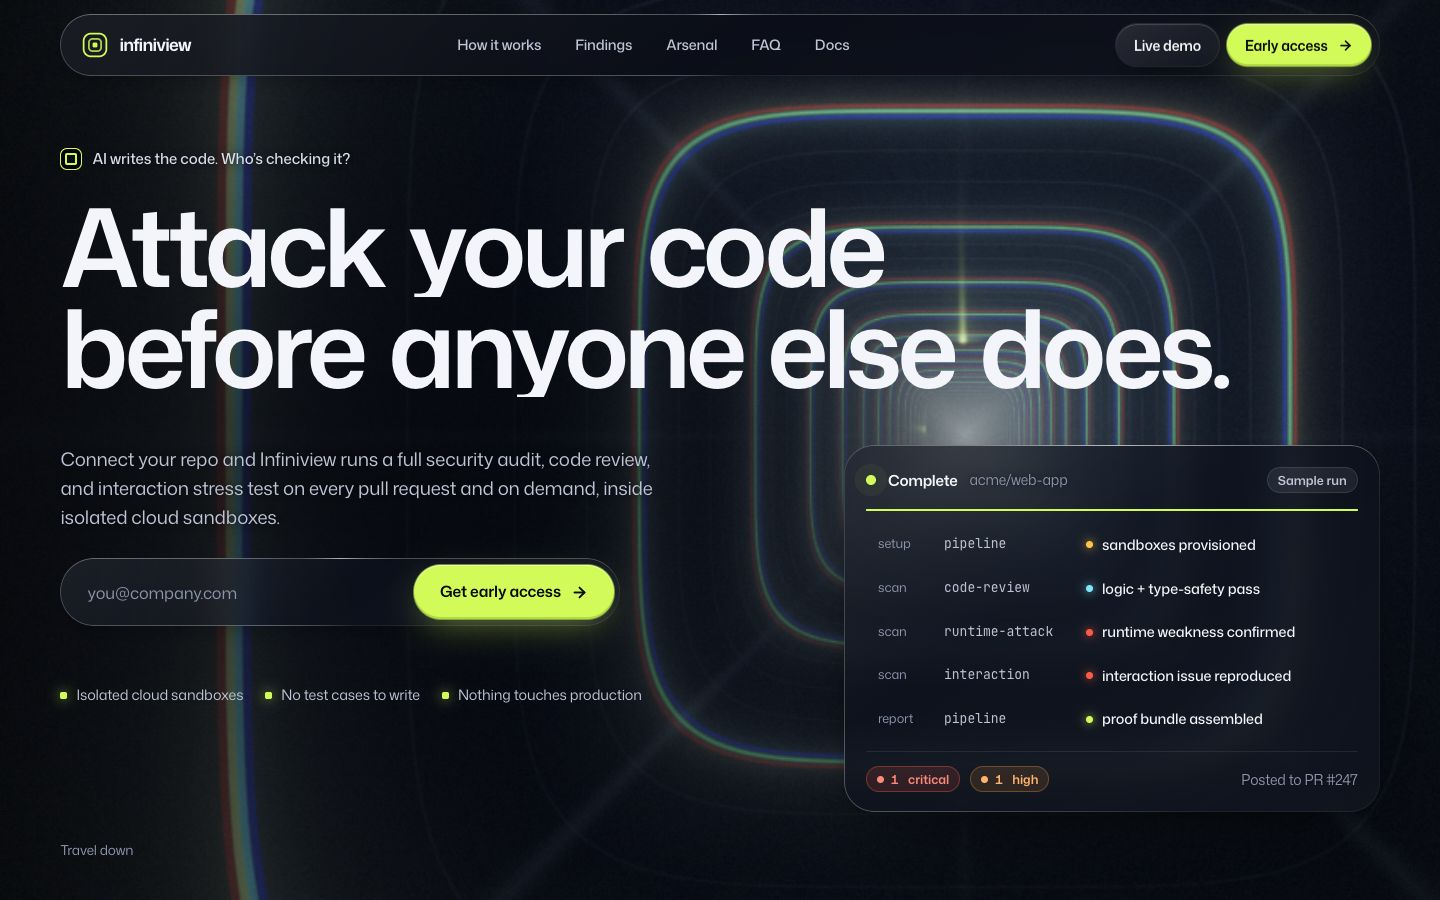
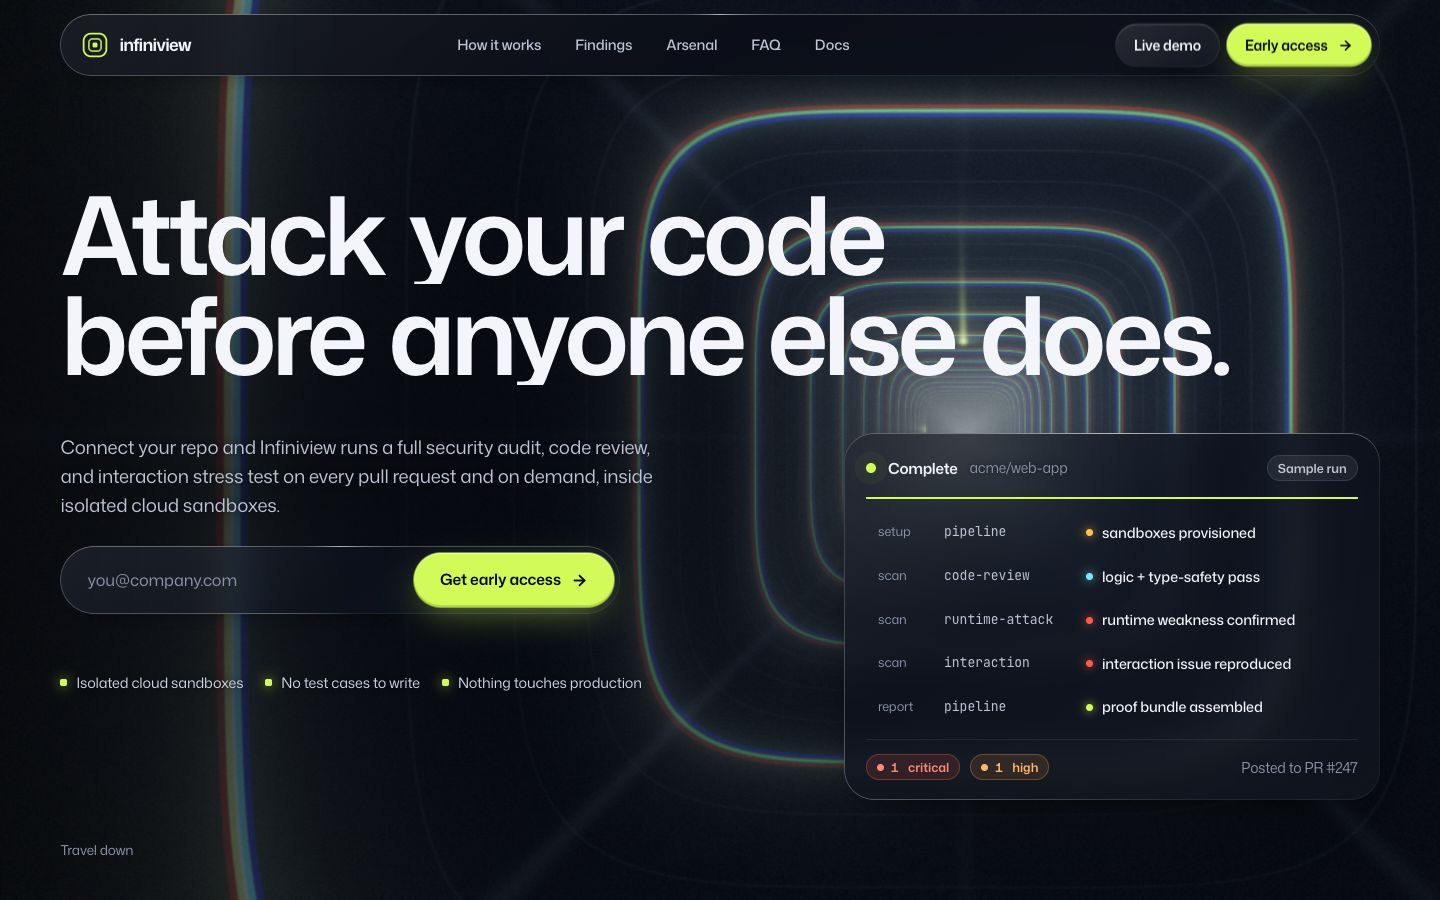
Remove the eyebrow lines above headings (hero, pricing, 404, error)
A small lead-in question or label above the main headline is a templated
pattern, not a design decision. Removed from the hero ("AI writes the code.
Who's checking it?"), the pricing intro, and the 404 and error pages (the 404
code now sits in its lede). The .kicker class and its halo entries go with it.

The removed height was handed back to the top padding, so the first screens
keep their rhythm: the hero headline moves up 0 to 12px (it moved 23px at
320px only because the old line wrapped there), pricing about 12px, and the
card/fold relationships are unchanged. The hero trust line gets the same dark
halo as other body copy and a slightly brighter colour, since it sits over the
corridor's frames. Contrast sweeps, axe and the e2e suite re-run clean;
README screenshots refreshed (hero, pricing, mobile hero).

diff --git a/src/app/(site)/site.css b/src/app/(site)/site.css
@@ -212,35 +212,14 @@ html.lenis body {
   .t-lede,
   .t-body,
   .t-small,
-  .kicker,
-  .plate-label {
+  .plate-label,
+  .hero-assure li {
     text-shadow: 0 0 14px rgba(3, 4, 10, 0.7), 0 0 3px rgba(3, 4, 10, 0.4);
   }
   .cta .t-lede,
   .cta .t-body,
-  .cta .t-small,
-  .cta .kicker {
+  .cta .t-small {
     text-shadow: none;
-  }
-
-  /* kicker: a plain sentence-case lead-in, not a tiny shouty label */
-  .kicker {
-    display: inline-flex;
-    align-items: center;
-    gap: 10px;
-    font-size: 0.9375rem;
-    font-weight: 500;
-    letter-spacing: -0.01em;
-    color: var(--iv-ink-2);
-  }
-  .kicker::before {
-    content: '';
-    width: 22px;
-    height: 22px;
-    border-radius: 7px;
-    border: 1.5px solid var(--iv-lime);
-    box-shadow: inset 0 0 0 4px rgba(3, 4, 10, 1), inset 0 0 0 6px var(--iv-lime);
-    flex: none;
   }
 
   /* ── Glass ───────────────────────────────────────────────────────────── */
@@ -758,7 +737,7 @@ html.lenis body {
     position: relative;
     min-height: 100vh;
     min-height: 100svh;
-    padding: calc(148px + env(safe-area-inset-top)) 0 72px;
+    padding: calc(184px + env(safe-area-inset-top)) 0 72px;
     display: flex;
     align-items: flex-start;
   }
@@ -781,10 +760,6 @@ html.lenis body {
   }
   .hero-copy {
     grid-column: 1 / -1;
-  }
-  .hero-kicker {
-    margin-bottom: clamp(14px, 1.8vw, 26px);
-    color: #d9deea; /* the first line on the page sits on the brightest part of the corridor */
   }
   .hero-h1 {
     /* capped so "before anyone else does." always fits the 1480 frame on two lines */
@@ -828,7 +803,7 @@ html.lenis body {
     padding: 0;
     margin: 0;
     font-size: 0.9rem;
-    color: var(--iv-ink-2);
+    color: #d0d6e4; /* these sit right over the corridor's frames: a step brighter than body copy */
   }
   .hero-assure li {
     display: inline-flex;
@@ -2308,7 +2283,7 @@ html.lenis body {
 @layer components {
   /* ── Pricing ─────────────────────────────────────────────────────────── */
 
-  .price-hero { padding: calc(clamp(140px, 17vw, 240px) + env(safe-area-inset-top)) 0 clamp(40px, 5vw, 72px); }
+  .price-hero { padding: calc(clamp(180px, calc(17vw + 40px), 280px) + env(safe-area-inset-top)) 0 clamp(40px, 5vw, 72px); }
   .price-hero .wrap { display: flex; flex-direction: column; gap: clamp(18px, 2.4vw, 30px); }
   .price-title { font-size: clamp(3rem, 8.4vw, 9rem); max-width: 14ch; margin: 0; }
   .price-lede { max-width: 42ch; margin: 0; }
@@ -2400,9 +2375,8 @@ html.lenis body {
 
   /* short laptop screens: tighten the first screen so the card clears the fold */
   @media (min-width: 1024px) and (max-height: 820px) {
-    .hero { padding-top: 124px; padding-bottom: 40px; }
+    .hero { padding-top: 150px; padding-bottom: 40px; }
     .hero-grid { row-gap: 22px; }
-    .hero-kicker { margin-bottom: 10px; }
     .hero-sub { gap: 18px; }
     .scan { padding: 16px 18px 14px; }
     .scan-row { padding-block: 6px; }

diff --git a/src/components/site/status-page.tsx b/src/components/site/status-page.tsx
@@ -6,10 +6,9 @@ import { ArrowRight } from "lucide-react";
 export function NotFoundContent() {
   return (
     <main id="main" className="status wrap">
-      <p className="kicker">Error 404</p>
       <h1 className="t-display status-title">This frame doesn’t exist.</h1>
       <p className="t-lede status-lede">
-        The page you’re after isn’t part of the corridor. It may have moved, or the link may be wrong.
+        The page you’re after (a 404) isn’t part of the corridor. It may have moved, or the link may be wrong.
       </p>
       <div className="status-actions">
         <Link href="/" className="btn btn--lime">

diff --git a/src/components/site/hero.tsx b/src/components/site/hero.tsx
@@ -113,9 +113,6 @@ export function Hero() {
     <section ref={root} id="top" className="hero" aria-labelledby="hero-title">
       <div className="wrap hero-grid">
         <div className="hero-copy">
-          <p className="hero-kicker kicker" data-intro>
-            {HERO.kicker}
-          </p>
           <h1 id="hero-title" ref={h1} className="t-display hero-h1" data-hero-title>
             {/* block only on wide screens; a <br> would be honoured by SplitText at every width */}
             <span className="md:block">Attack your code</span> <span>before anyone else does.</span>

diff --git a/src/lib/site/content.ts b/src/lib/site/content.ts
@@ -5,7 +5,6 @@
 export const DOCS_URL = process.env.NEXT_PUBLIC_DOCS_URL ?? "https://docs.infiniview.dev";
 
 export const HERO = {
-  kicker: "AI writes the code. Who’s checking it?",
   title: "Attack your code before anyone else does.",
   lede: "Connect your repo and Infiniview runs a full security audit, code review, and interaction stress test on every pull request and on demand, inside isolated cloud sandboxes.",
   assurances: ["Isolated cloud sandboxes", "No test cases to write", "Nothing touches production"],

diff --git a/src/app/(site)/pricing/page.tsx b/src/app/(site)/pricing/page.tsx
@@ -111,9 +111,6 @@ export default function PricingPage() {
       <script type="application/ld+json" dangerouslySetInnerHTML={{ __html: jsonLd(faqPage(FAQS)) }} />
       <section className="price-hero" aria-labelledby="price-title">
         <div className="wrap">
-          <p className="kicker" data-intro-soft data-reveal>
-            Early access pricing
-          </p>
           <h1 id="price-title" className="t-display price-title" data-split>
             Security that scales with you.
           </h1>

diff --git a/src/app/error.tsx b/src/app/error.tsx
@@ -25,7 +25,6 @@ export default function ErrorPage({
     <div className={cn(mona.variable, jetbrains.variable)}>
       <StatusFrame>
         <main id="main" className="status wrap">
-          <p className="kicker">Something broke</p>
           <h1 className="t-display status-title">That one’s on us.</h1>
           <p className="t-lede status-lede">
             The page hit an unexpected error. Trying again usually clears it.
